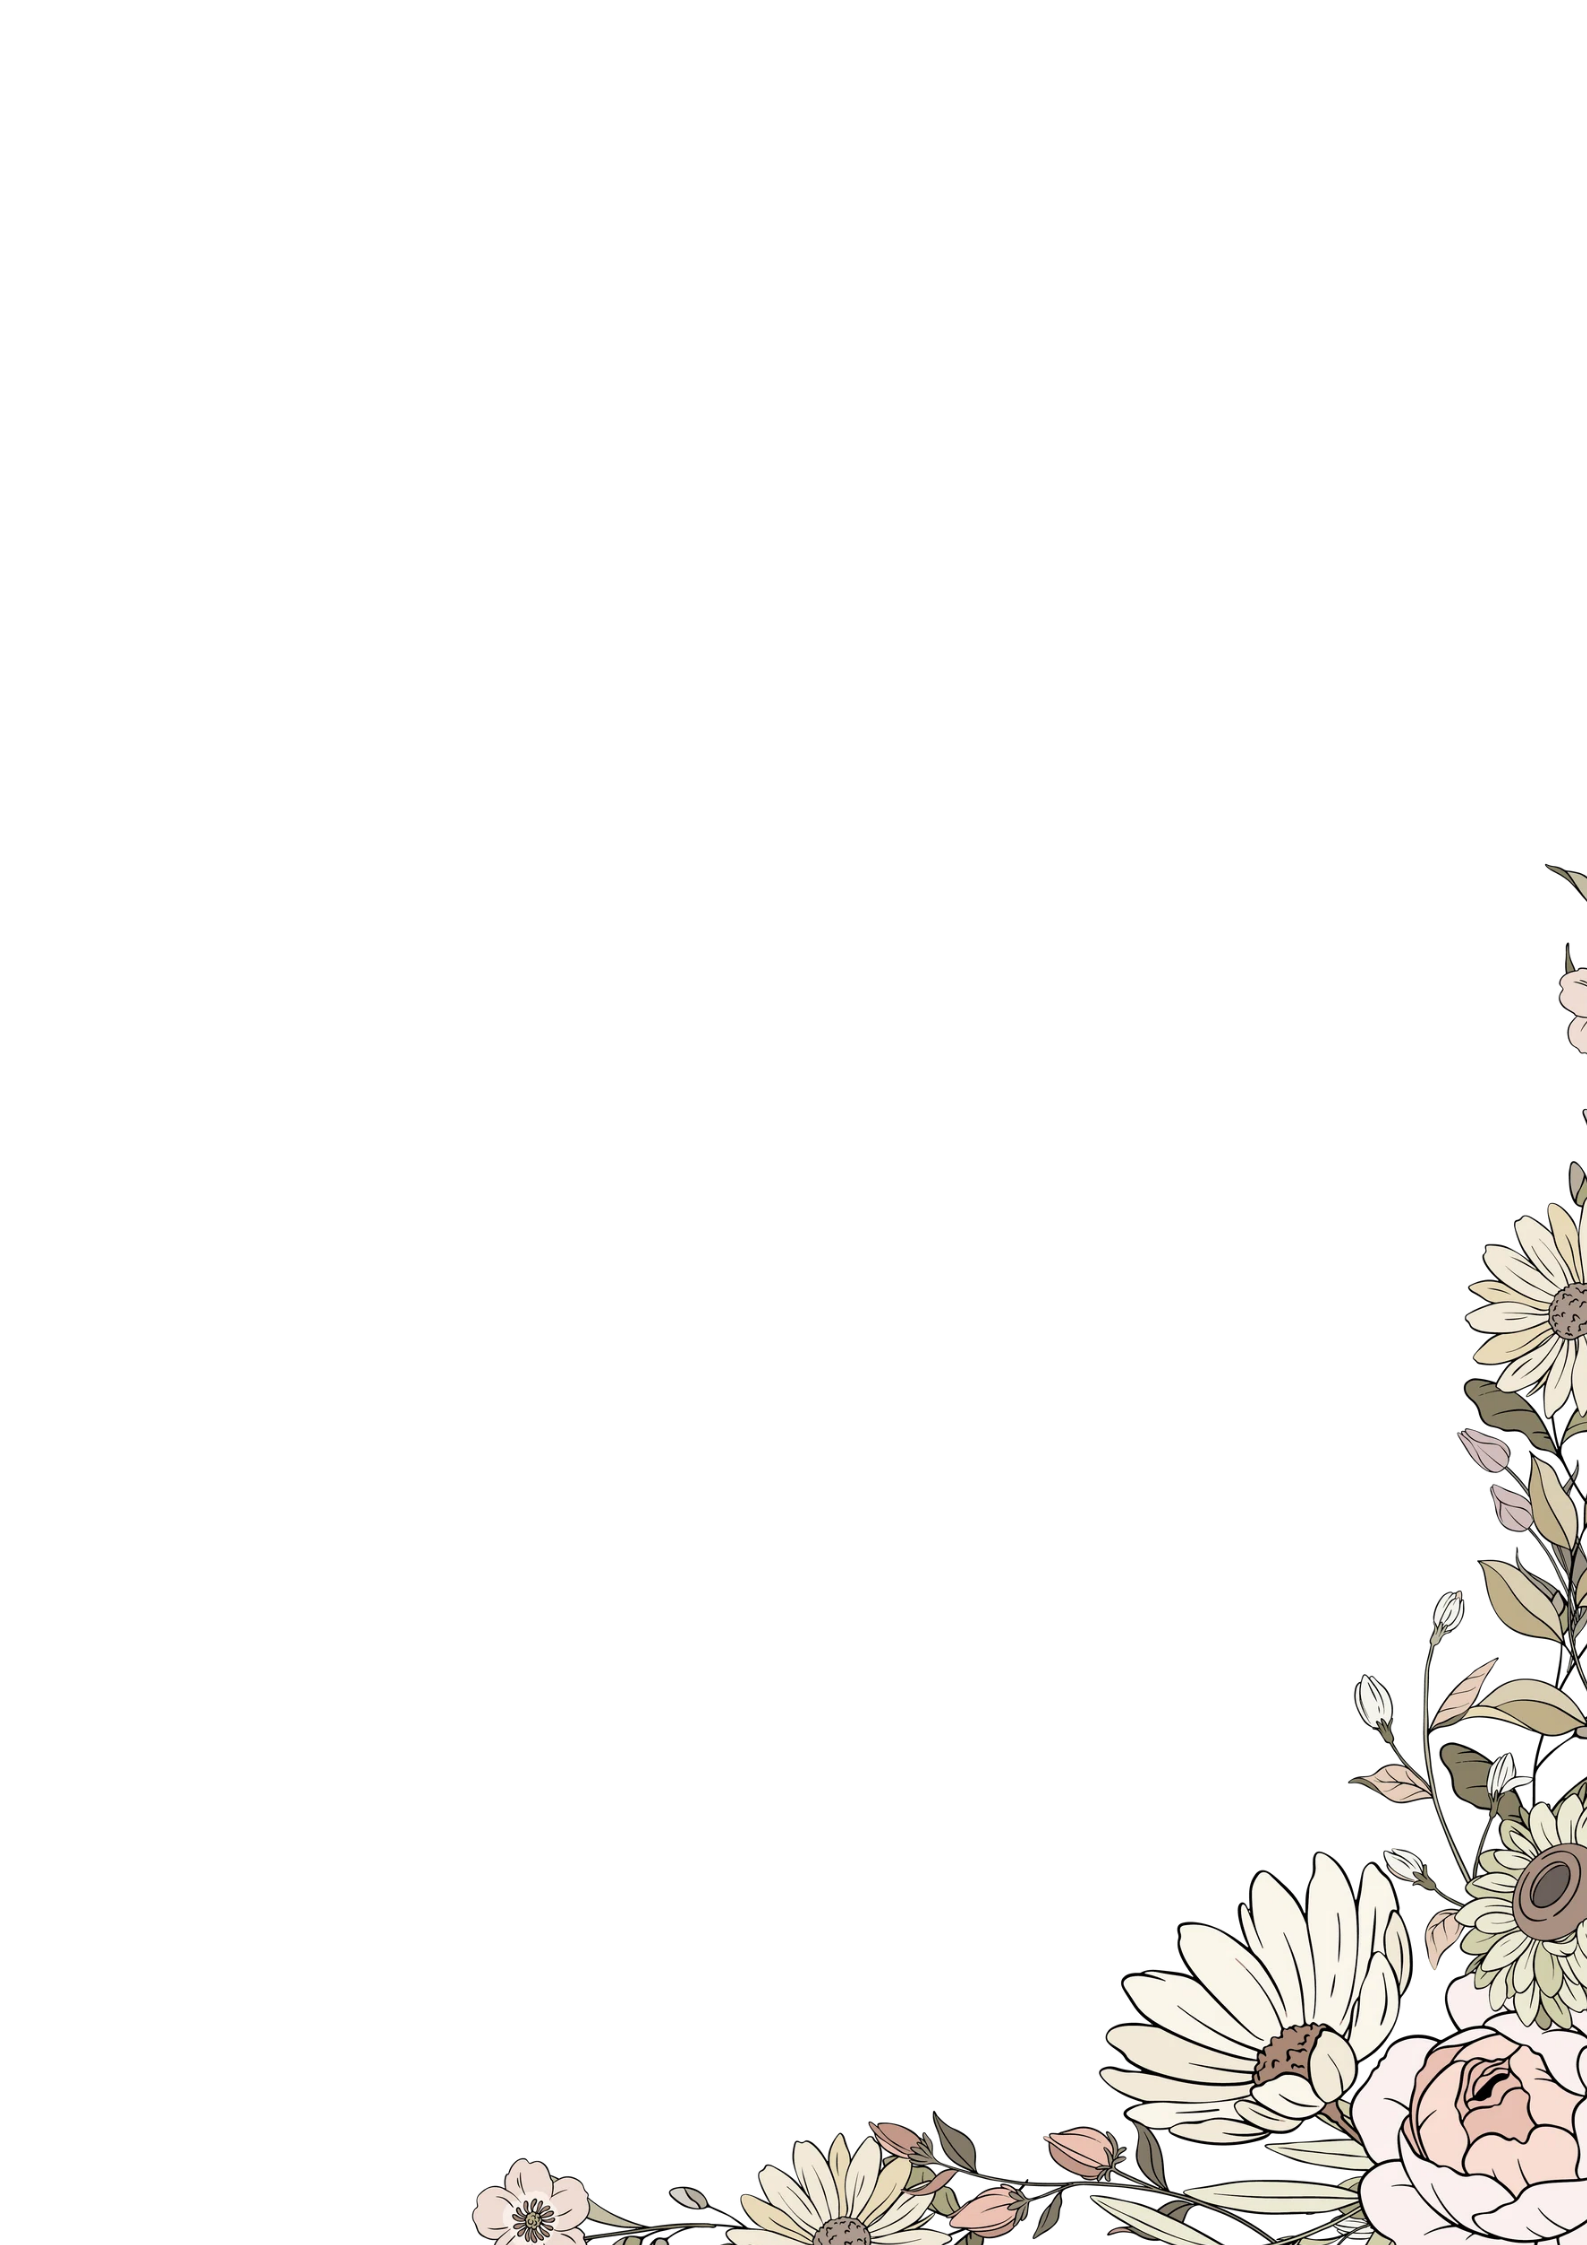
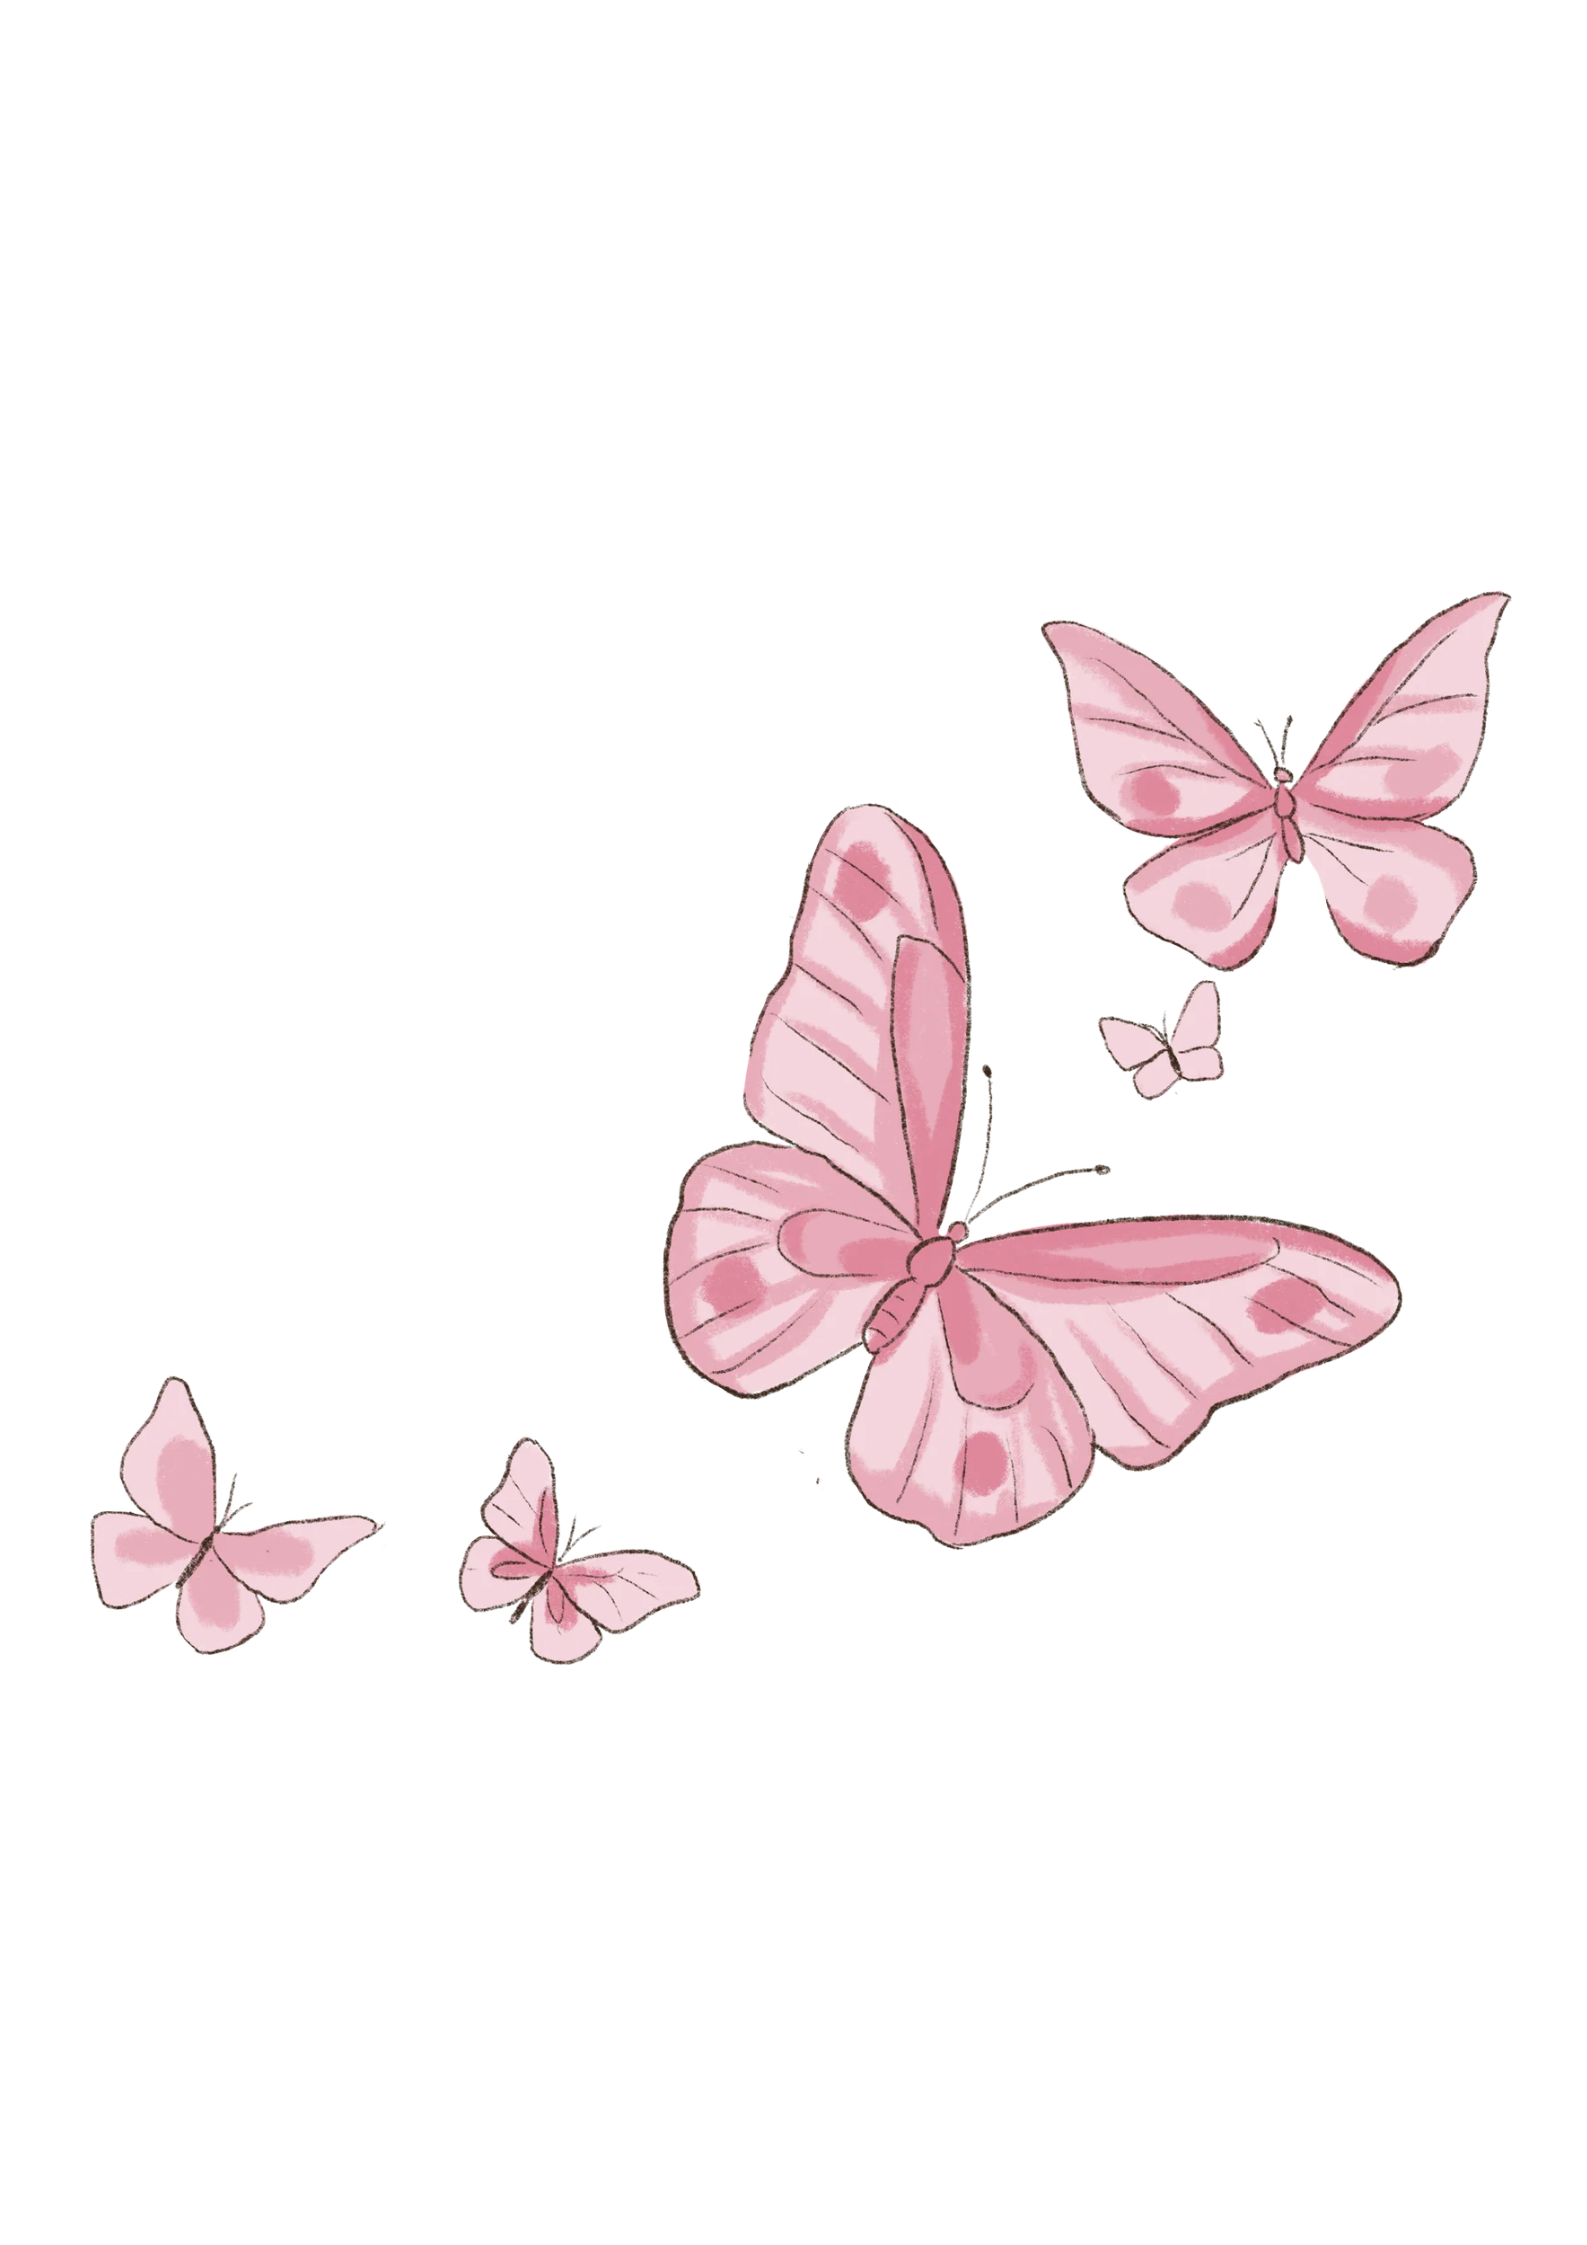
update

diff --git a/src/components/Gallery.jsx b/src/components/Gallery.jsx
@@ -33,6 +33,7 @@ export default function Gallery() {
       {/* =========================================
           FLOWER 1
           KIRI ATAS
+          MENYERUPAI BUNGA HERO KIRI ATAS
       ========================================= */}
 
       <img
@@ -42,25 +43,48 @@ export default function Gallery() {
         className="
           absolute
           z-[5]
+          top-0
+          left-0
+
+          w-68
+          sm:w-80
+          md:w-80
+          lg:w-80
+
+          h-auto
+
+          pointer-events-none
           select-none
+        "
+      />
 
-          left-[5%]
-          top-[8%]
-          w-[75%]
 
-          sm:left-[5%]
-          sm:top-[8%]
-          sm:w-[50%]
+      {/* =========================================
+          FLOWER 3
+          KANAN BAWAH
+          MENYERUPAI BUNGA HERO KANAN BAWAH
+      ========================================= */}
 
-          md:left-[5%]
-          md:top-[8%]
-          md:w-[50%]
+      <img
+        src={galleryFlower[2]}
+        alt=""
+        draggable={false}
+        className="
+          absolute
+          z-[30]
 
-          lg:left-[5%]
-          lg:top-[8%]
-          lg:w-[50%]
+          bottom-15
+          right-0
 
-          rotate-[-15deg]
+          w-74
+          sm:w-80
+          md:w-80
+          lg:w-80
+
+          h-auto
+
+          pointer-events-none
+          select-none
         "
       />
 
@@ -278,75 +302,6 @@ export default function Gallery() {
           draggable={false}
         />
       </div>
-
-
-      {/* =========================================
-          FLOWER 2
-          KIRI BAWAH
-      ========================================= */}
-
-      <img
-        src={galleryFlower[1]}
-        alt=""
-        draggable={false}
-        className="
-          absolute
-          z-[30]
-          select-none
-
-          left-[10%]
-          top-[22%]
-          w-[70%]
-
-          sm:left-[10%]
-          sm:top-[45%]
-          sm:w-[50%]
-
-          md:left-[10%]
-          md:top-[45%]
-          md:w-[50%]
-
-          lg:left-[10%]
-          lg:top-[45%]
-          lg:w-[50%]
-
-          rotate-[18deg]
-        "
-      />
-
-
-      {/* =========================================
-          FLOWER 3
-          KANAN BAWAH
-      ========================================= */}
-
-      <img
-        src={galleryFlower[2]}
-        alt=""
-        draggable={false}
-        className="
-          absolute
-          z-[30]
-          select-none
-
-          left-[29.5%]
-          top-[18%]
-          w-[70%]
-
-          sm:left-[30%]
-          sm:top-[14%]
-          sm:w-[70%]
-
-          md:left-[30%]
-          md:top-[14%]
-          md:w-[70%]
-
-          lg:left-[30%]
-          lg:top-[14%]
-          lg:w-[70%]
-
-        "
-      />
 
 
       {/* =========================================
